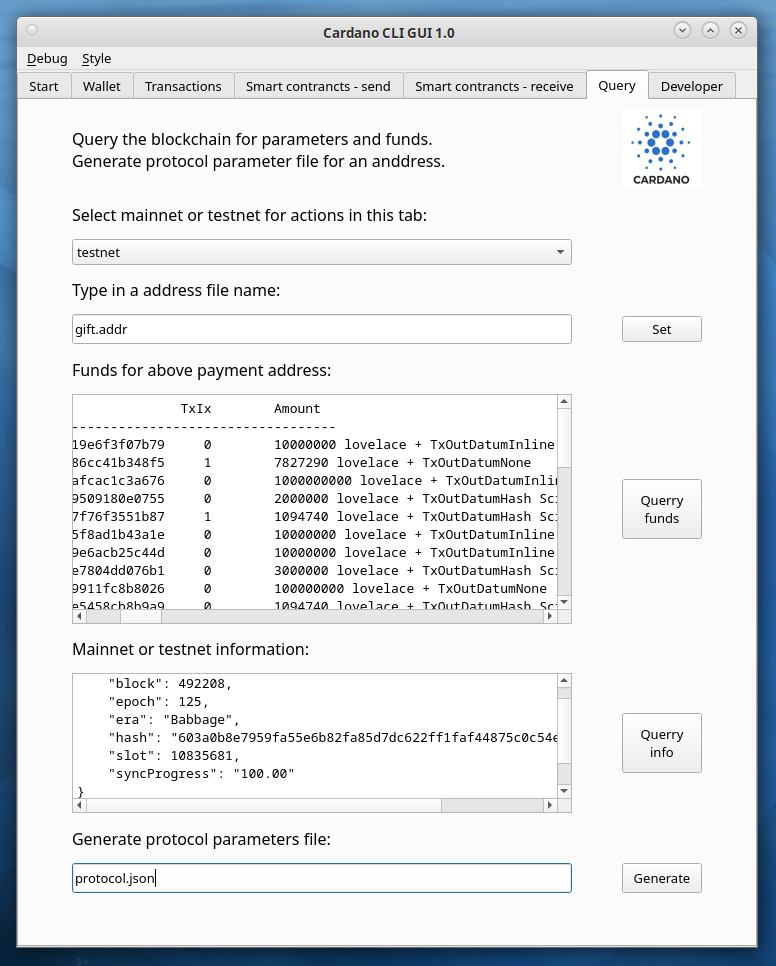
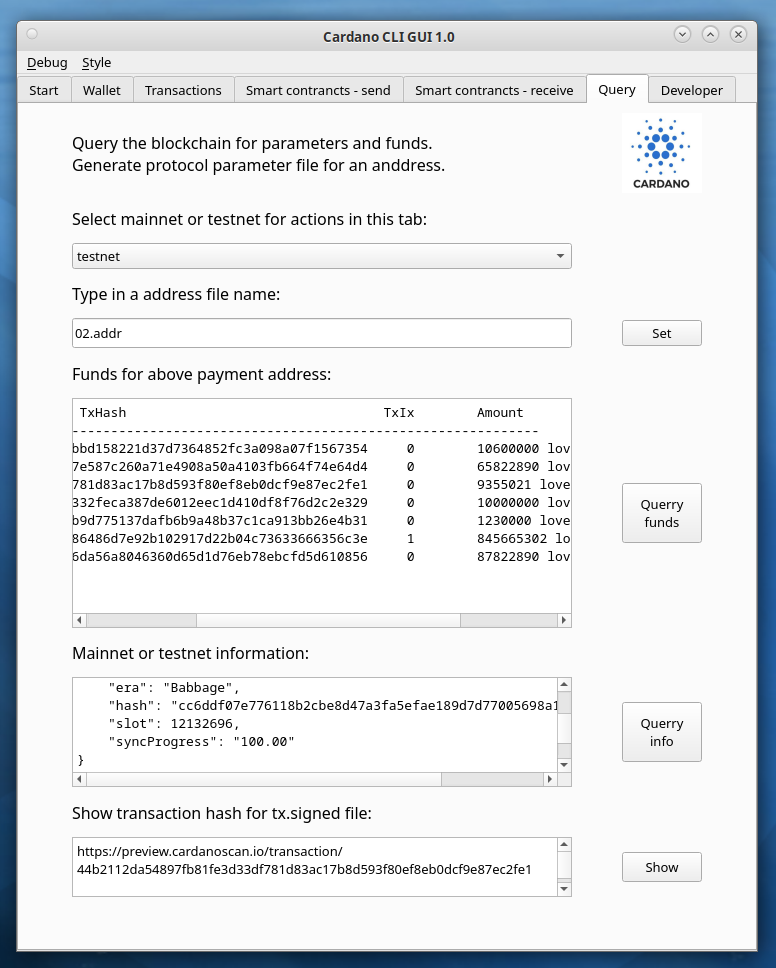
Updating query tab code and image.

diff --git a/py-files/query.py b/py-files/query.py
@@ -1,6 +1,7 @@
 
 
 import os
+import time
 import settings
 import subprocess
 import traceback
@@ -47,9 +48,9 @@ class Query(QWidget):
         self.button_8_1 = QPushButton("Querry\ninfo")
 
         # Widgets for protocol parameters file section
-        self.label_9_0 = QLabel("Generate protocol parameters file:")
-        self.input_10_0 = QLineEdit("")
-        self.button_10_1 = QPushButton("Generate")
+        self.label_9_0 = QLabel("Show transaction hash for tx.signed file:")
+        self.input_10_0 = QPlainTextEdit()
+        self.button_10_1 = QPushButton("Show")
 
         # Action functions
         self.comboBox_2_0.addItems(["", "mainnet", "testnet"])
@@ -58,7 +59,7 @@ class Query(QWidget):
         self.button_4_1.clicked.connect(self.set_address)
         self.button_6_1.clicked.connect(self.query_address_funds)
         self.button_8_1.clicked.connect(self.query_net)
-        self.button_10_1.clicked.connect(self.generate_protocol_params_file)
+        self.button_10_1.clicked.connect(self.show_transaction)
 
         # Set label fonts 
         labels = [self.label_0_0, self.label_1_0,
@@ -70,10 +71,7 @@ class Query(QWidget):
             label.setFont(font)
 
         # Set lineEdit size 
-        inputs = [self.input_4_0, self.input_6_0,
-                  self.input_8_0, self.input_10_0] 
-        for input in inputs:
-            input.setFixedSize(500, 30)
+        self.input_4_0.setFixedSize(500, 30)
 
         # Set plainTextEdit properties
         consolas_font = QFont()
@@ -86,10 +84,15 @@ class Query(QWidget):
                          "--------------------------------------------------------------------------------------------"
         self.input_6_0.setPlainText(self.init_text)
 
-        self.input_8_0.setFixedSize(500,140) 
+        self.input_8_0.setFixedSize(500,110) 
         self.input_8_0.setFont(consolas_font)
         self.input_8_0.setLineWrapMode(QPlainTextEdit.LineWrapMode.NoWrap) 
         self.input_8_0.setPlainText("")
+
+        self.input_10_0.setFixedSize(500,60) 
+        #self.input_10_0.setFont(consolas_font)
+        self.input_10_0.setLineWrapMode(QPlainTextEdit.LineWrapMode.NoWrap) 
+        self.input_10_0.setPlainText("")
 
         # Set button size 
         self.button_6_1.setFixedSize(80,30)
@@ -223,54 +226,30 @@ class Query(QWidget):
                 QMessageBox.warning(self, "Notification:", msg,
                                     QMessageBox.Close)
 
-    def generate_protocol_params_file(self):
-        if self.net == "":
-            msg = "Select option mainnet or testnet."    
+    def show_transaction(self):
+        tx_signed_path = settings.folder_path + "/" + "tx.signed"
+        tx_signed_exists = os.path.isfile(tx_signed_path)
+
+        if not tx_signed_exists:
+            msg = "tx.signed file does not exists.\n" + \
+                  "Please submit first a transaction." 
             QMessageBox.warning(self, "Notification:", msg,
                                 QMessageBox.Close)
             return None
 
-        if self.net == "mainnet": 
-            net_part =  "--mainnet "
-        elif self.net == "testnet":
-            net_part = "--testnet-magic " + settings.testnet_magic + " "
-        
-        file_number_count = 0
-        while(True):
-            if file_number_count == 0:
-                prepend_num = ""
-            else:
-                prepend_num = str(file_number_count)
+        command = "cardano-cli transaction txid --tx-file tx.signed"
+
+        try:
+            response = subprocess.Popen(command.split(), stdout=subprocess.PIPE, cwd=settings.folder_path) 
+            # time.spleep(1) 
+            output = response.communicate()[0].decode("utf-8")
+            self.input_10_0.setPlainText("https://preview.cardanoscan.io/transaction/\n" + output)
+        except Exception:
+            output = traceback.format_exc()
+            common_functions.log_error_msg(output)
             
-            pp_file_name = "protocol" + prepend_num + ".json"
-            pp_file_path = settings.folder_path + "/" + pp_file_name
-            pp_file_exists = os.path.isfile(pp_file_path)
-            
-            if not pp_file_exists:
-                self.pp_file_name = pp_file_name
-                break
-
-            file_number_count += 1
-
-        command = "cardano-cli query protocol-parameters " + \
-                  net_part + \
-                  "--out-file " + self.pp_file_name 
-
-        if settings.debug_mode:
-            print("Command below is defined in py-files/query.py line 255:")
-            print(common_functions.format_command(command) + "\n")
-        else:
-            try:
-                subprocess.Popen(command.split(), cwd=settings.folder_path) 
-                self.input_10_0.setText(self.pp_file_name)
-                msg = "Protocol parameters file successfully generated." 
-                QMessageBox.information(self, "Notification:", msg)
-            except Exception:
-                output = traceback.format_exc()
-                common_functions.log_error_msg(output)
-                
-                msg = "Address could not be querried.\n" + \
-                      "Check if cardano node is running and is synced.\n" + \
-                      "Look at the error.log file for error output."                    
-                QMessageBox.warning(self, "Notification:", msg,
-                                    QMessageBox.Close)   
+            msg = "Signed transaction could not be querried.\n" + \
+                  "Check if cardano node is running and is synced.\n" + \
+                  "Look at the error.log file for error output." 
+            QMessageBox.warning(self, "Notification:", msg,
+                                QMessageBox.Close)
